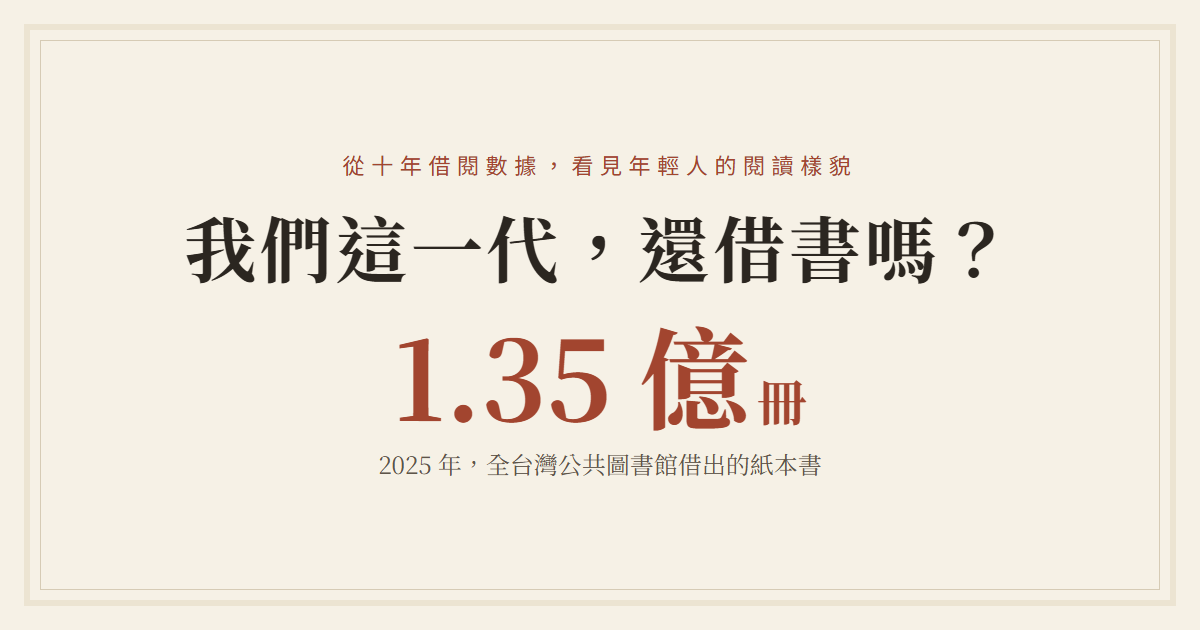
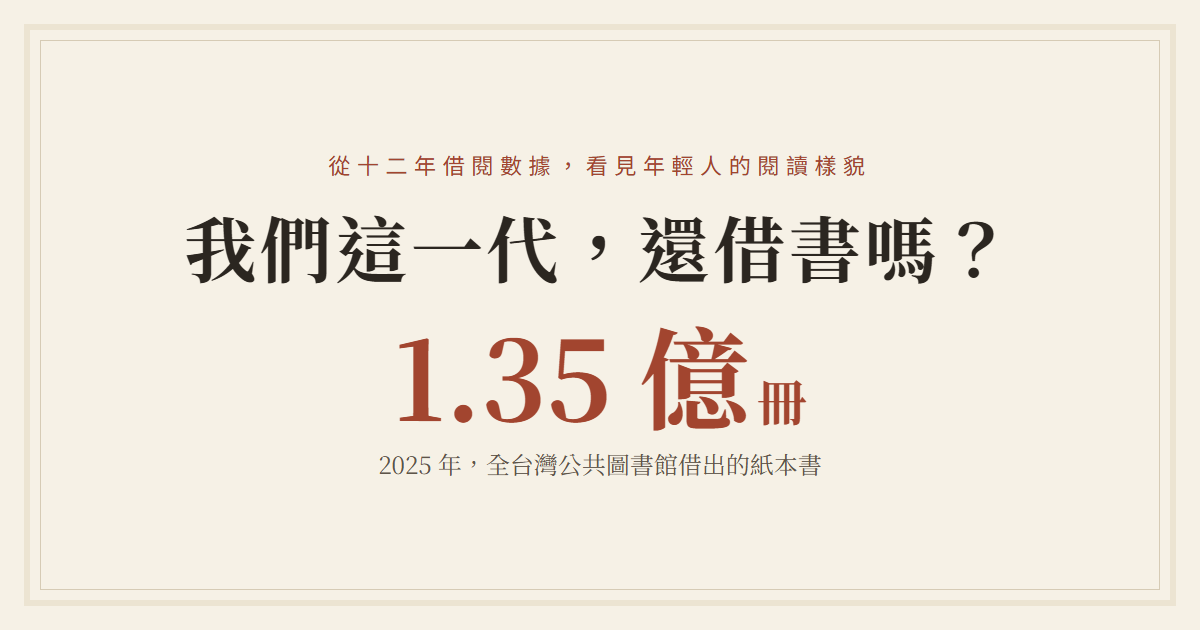
Mention the new interactions in the AI note; regenerate the share preview
Also: heat-table cells no longer wrap, the corner cell stays put while the
table scrolls, and auto-scroll uses block: nearest so the map stays in view.

Changed region(s): [[0.2775, 0.2413, 0.74, 0.3016]]

diff --git a/sources.html b/sources.html
@@ -173,7 +173,7 @@
     <h2 id="ai-note">AI 使用說明</h2>
     <p>依照競賽簡章的規定，說明本作品使用生成式 AI 的地方：</p>
     <ul class="ai-split">
-      <li><strong>AI 協助的部分：</strong>網頁程式碼由生成式 AI（Claude）協助撰寫，包括版面、圖表、地圖、年齡工具、借書成績單、結語頁、章節一的「先猜再看」、圖表的捲動動畫、分享預覽圖，以及整理數據、自動檢查數字和連結的程式。</li>
+      <li><strong>AI 協助的部分：</strong>網頁程式碼由生成式 AI（Claude）協助撰寫，包括版面、圖表、地圖和地圖上的縣市標籤、章節三的年齡 × 類別顏色深淺表、年齡工具（含「特別愛借」的類別和書單）、借書成績單和成績單圖片上的長條圖、結語頁、章節一的「先猜再看」、圖表的捲動動畫、手機上自動捲到結果、分享預覽圖，以及整理數據、自動檢查數字和連結的程式。</li>
       <li><strong>參賽者決定的部分：</strong>主題選擇、故事架構、視覺方向由參賽者決定，包括要回答哪三個問題、章節順序、書頁質感的風格。</li>
       <li><strong>數據：</strong>所有數據來自政府公開資料和圖書館年報，經過人工核對，不是 AI 生成的。手動抄寫的表格用原表的小計、總計核對；網站上的關鍵數字有自動檢查。</li>
     </ul>

diff --git a/assets/style.css b/assets/style.css
@@ -451,12 +451,12 @@ h2 {
 .heat-table { border-collapse: separate; border-spacing: 2px; font-family: var(--sans); font-size: 0.75rem; font-variant-numeric: tabular-nums; min-width: 100%; }
 .heat-table th { font-weight: 400; color: var(--ink-soft); white-space: nowrap; }
 .heat-table thead th { padding: 0 0.15rem 0.25rem; vertical-align: bottom; writing-mode: vertical-rl; text-orientation: upright; letter-spacing: 0.05em; }
-.heat-table thead th:first-child { writing-mode: horizontal-tb; text-align: left; }
+.heat-table thead th:first-child { writing-mode: horizontal-tb; text-align: left; position: sticky; left: 0; background: #fffdf8; }
 .heat-table th a { color: var(--ink); text-decoration: none; }
 .heat-table th a:hover { color: var(--accent); text-decoration: underline; }
 .heat-table tbody th { text-align: left; padding-right: 0.4rem; position: sticky; left: 0; background: #fffdf8; }
 .heat-table tbody th small { display: block; font-size: 0.625rem; color: var(--accent); }
-.heat-table__cell { text-align: center; padding: 0.35rem 0.25rem; min-width: 2.6rem; border-radius: 2px; color: var(--ink); }
+.heat-table__cell { text-align: center; padding: 0.35rem 0.25rem; min-width: 2.6rem; border-radius: 2px; color: var(--ink); white-space: nowrap; }
 .heat-table tr.is-young th a { color: var(--accent); font-weight: 700; }
 .heat-table tr.is-young .heat-table__cell { box-shadow: inset 0 0 0 2px var(--accent); font-weight: 700; }
 

diff --git a/assets/site.js b/assets/site.js
@@ -70,7 +70,8 @@
     const visible = rect.top >= 0 && rect.top < window.innerHeight * 0.85;
     if (visible) return;
     const reduce = matchMedia('(prefers-reduced-motion: reduce)').matches;
-    el.scrollIntoView({ behavior: reduce ? 'auto' : 'smooth', block: 'start' });
+    // nearest：結果比畫面小（地圖下的數字）就捲到剛好露出來，地圖還看得到；比畫面大（年齡結果）就對齊上緣
+    el.scrollIntoView({ behavior: reduce ? 'auto' : 'smooth', block: 'nearest' });
   }
 
   const latest = data.national[data.national.length - 1];
